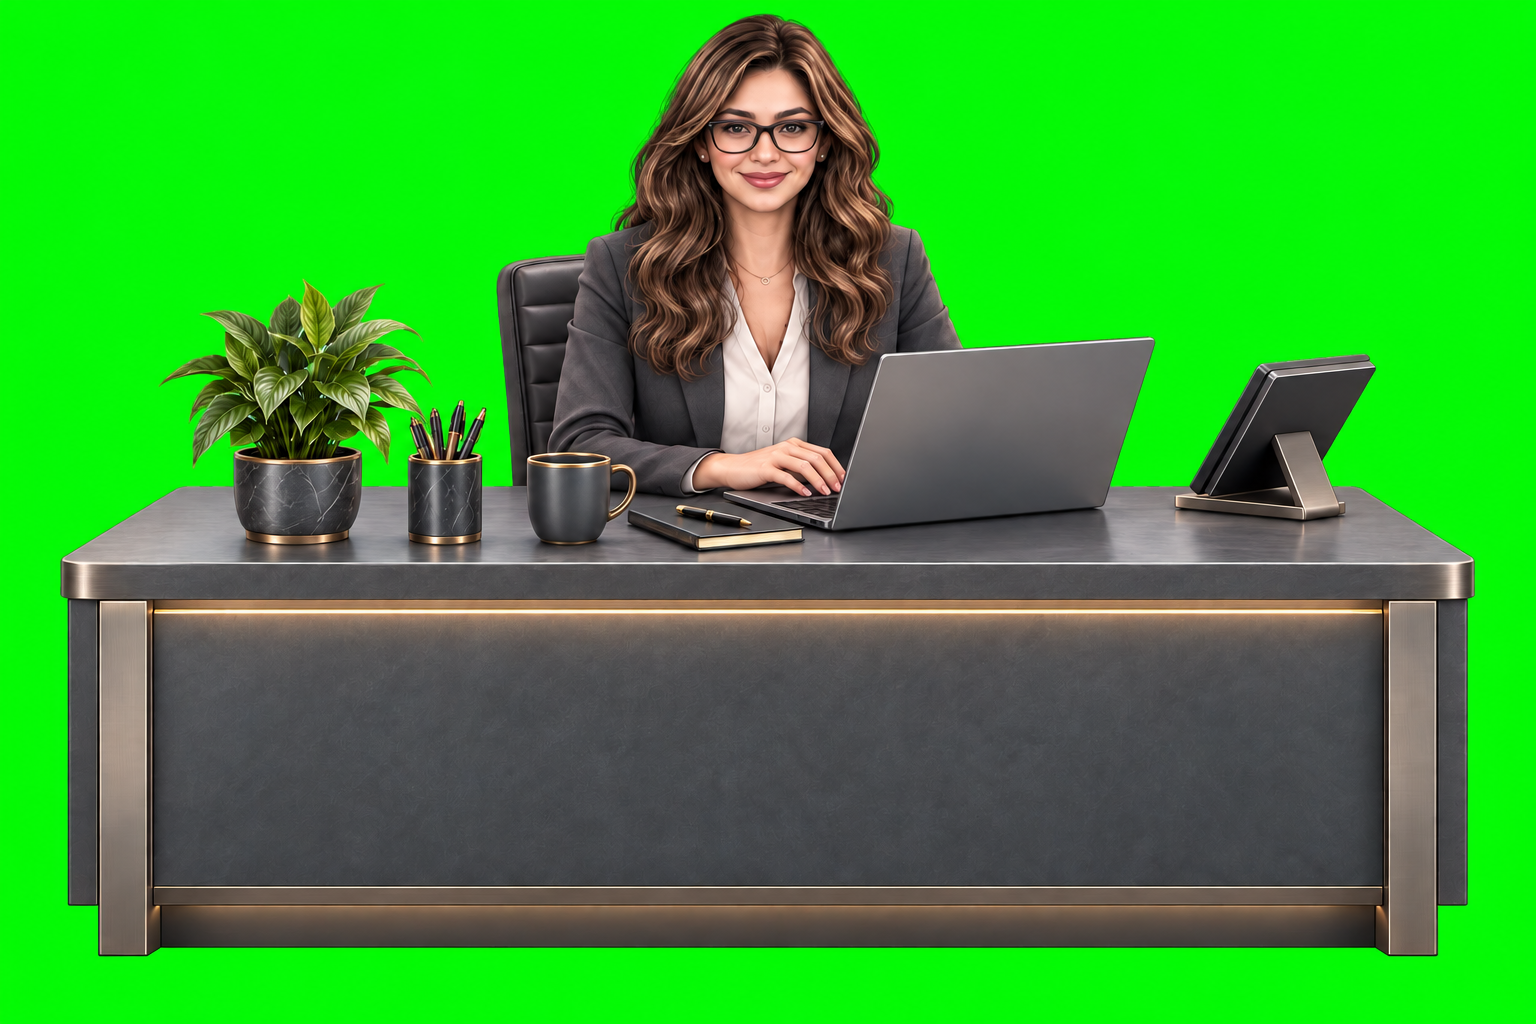
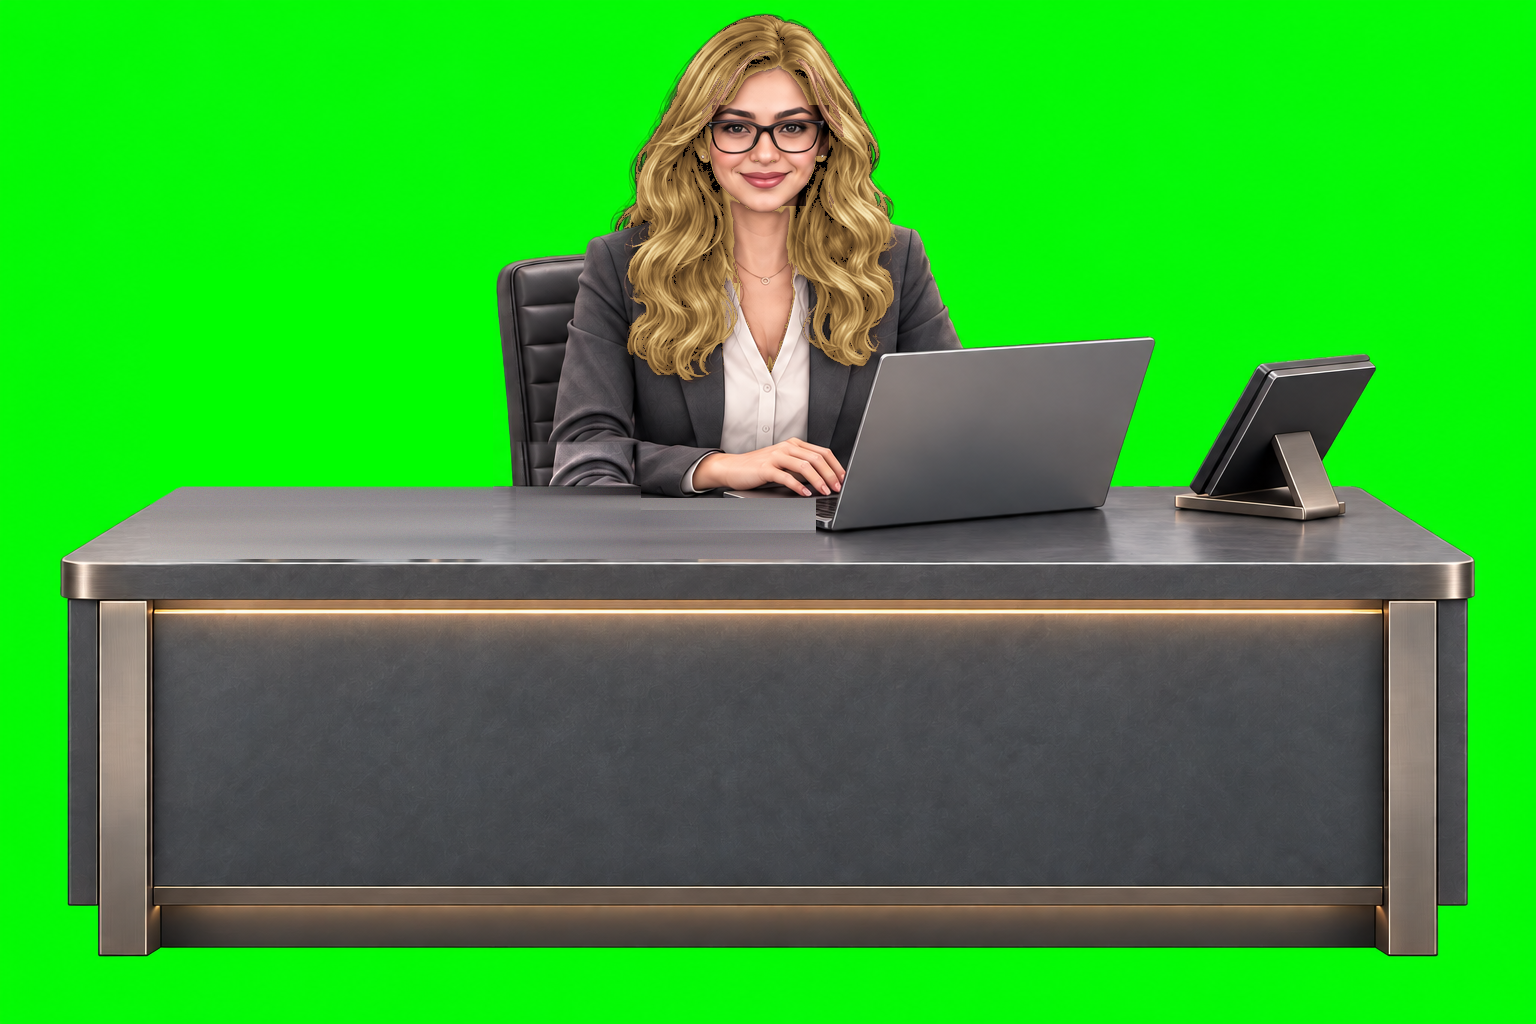
Studio: blonde receptionist, cleared desk, one big info screen per room; drop nav red pill

Changed region(s): [[0.0938, 0.2812, 0.5312, 0.5625], [0.4062, 0.0, 0.5938, 0.375]]

diff --git a/studio/scene.js b/studio/scene.js
@@ -40,8 +40,29 @@ function figure(url,w,h,parent,x,y,z,action){
   plane.userData.alpha={pixels,width:iw,height:ih};mat.map=t;mat.needsUpdate=true;plane.visible=true;
  },undefined,()=>{plane.visible=false});if(action){plane.userData.action=action;hits.push(plane)}return plane;
 }
-function chair(parent,x,z){box(.7,.12,.7,mats.dark,parent,x,.48,z);box(.7,.85,.1,mats.dark,parent,x,.94,z+.3);box(.07,.45,.07,mats.trim,parent,x,.25,z);for(const a of [-1,1])box(.65,.05,.06,mats.trim,parent,x,.08,z+a*.2)}
-function desk(parent,x,z,color){box(3,.13,1.4,mats.wood,parent,x,.84,z);for(const a of [-1,1])box(.12,.8,1.1,mats.dark,parent,x+a*1.3,.4,z);box(1.35,.83,.07,mats.dark,parent,x,1.42,z-.25);label('shautech',chapters[color].name.toUpperCase(),1.22,.68,parent,x,1.42,z-.201,95,chapters[color].color);box(.08,.32,.08,mats.trim,parent,x,1,z-.25);box(.48,.03,.3,mats.trim,parent,x,.92,z-.25);box(.6,.035,.24,mats.dark,parent,x,.925,z+.27);chair(parent,x,z-1.2)}
+// One wall-sized screen per room carries the chapter's story: title, lead and the key points from its detail panel.
+function wrap(ctx,text,maxWidth){const words=text.split(/\s+/),lines=[];let line='';for(const w of words){const test=line?line+' '+w:w;if(ctx.measureText(test).width>maxWidth&&line){lines.push(line);line=w}else line=test}if(line)lines.push(line);return lines}
+function screen(ch,index,w,h,parent,x,y,z){
+ const doc=new DOMParser().parseFromString(ch.body.replace(/<br\s*\/?>/gi,' '),'text/html');
+ const text=el=>(el?.textContent||'').replace(/\s+/g,' ').trim();
+ const title=text(doc.querySelector('h2')),lead=text(doc.querySelector('.detail-lead'));
+ const items=[...doc.querySelectorAll('article, .lab-link')].map((el,k)=>({num:text(el.querySelector('.num'))||text(el.querySelector('p.eyebrow'))||text(el.querySelector(':scope > span'))||'0'+(k+1),head:text(el.querySelector('h3')),body:text(el.querySelector('p:not(.eyebrow)'))})).filter(it=>it.head).slice(0,6);
+ const c=document.createElement('canvas');c.width=2048;c.height=1024;const ctx=c.getContext('2d');
+ const grad=ctx.createLinearGradient(0,0,0,1024);grad.addColorStop(0,'#0f1a25');grad.addColorStop(1,'#0a121a');ctx.fillStyle=grad;ctx.fillRect(0,0,2048,1024);
+ ctx.strokeStyle=ch.color;ctx.globalAlpha=.35;ctx.lineWidth=4;ctx.strokeRect(22,22,2004,980);ctx.globalAlpha=1;
+ ctx.fillStyle=ch.color;ctx.font='500 34px Arial';ctx.fillText(`0${index} / ${ch.name.toUpperCase()}   ·   ${ch.eyebrow}`,90,96);
+ ctx.fillStyle='#f2f4f0';ctx.font='600 110px Arial';let yy=212;for(const l of wrap(ctx,title,1860)){ctx.fillText(l,86,yy);yy+=118}
+ ctx.fillStyle=ch.color;ctx.fillRect(90,yy-58,180,5);yy+=22;
+ ctx.fillStyle='#c4ccd2';ctx.font='42px Arial';for(const l of wrap(ctx,lead,1860)){ctx.fillText(l,90,yy);yy+=56}
+ const cols=items.length>4?3:2,gap=44,cw=(2048-180-gap*(cols-1))/cols,rows=Math.ceil(items.length/cols),top=yy+36,rowH=Math.min(250,(940-top)/Math.max(1,rows));
+ items.forEach((it,k)=>{const cx=90+(k%cols)*(cw+gap),cy=top+Math.floor(k/cols)*rowH;ctx.fillStyle=ch.color;ctx.fillRect(cx,cy,3,rowH-30);ctx.font='500 26px Arial';ctx.fillText(it.num.toUpperCase(),cx+24,cy+30);ctx.fillStyle='#ffffff';ctx.font='600 44px Arial';let ly=cy+84;for(const l of wrap(ctx,it.head,cw-40).slice(0,2)){ctx.fillText(l,cx+24,ly);ly+=50}ctx.fillStyle='#9fb0bd';ctx.font='30px Arial';for(const l of wrap(ctx,it.body,cw-40).slice(0,rowH>200?3:2)){ctx.fillText(l,cx+24,ly);ly+=38}});
+ ctx.fillStyle=ch.color;ctx.font='500 30px Arial';ctx.textAlign='right';ctx.fillText('CLICK THE SCREEN FOR THE FULL STORY  ↗',1958,972);
+ const tex=new T.CanvasTexture(c);tex.colorSpace=T.SRGBColorSpace;tex.anisotropy=renderer.capabilities.getMaxAnisotropy();
+ const m=new T.Mesh(new T.PlaneGeometry(w,h),new T.MeshBasicMaterial({map:tex,toneMapped:false}));m.position.set(x,y,z);parent.add(m);
+ const bezel=new T.MeshStandardMaterial({color:0x0b1219,metalness:.6,roughness:.35});box(w+.16,h+.16,.06,bezel,parent,x,y,z-.035);
+ const glow=emissive(new T.Color(ch.color),1.2);box(w+.24,.03,.04,glow,parent,x,y-h/2-.11,z-.03);box(w+.24,.03,.04,glow,parent,x,y+h/2+.11,z-.03);
+ return m;
+}
 // The reception opens directly into a continuous, physically modelled hallway.
 box(8,.2,108,mats.floor,scene,0,-.12,-39);box(8,.2,108,mats.dark,scene,0,4.9,-39);
 for(let z=14;z>=-91;z-=3){box(7.9,.007,.014,mats.trim,scene,0,.001,z);box(.014,.007,3,mats.trim,scene,0,.002,z-1.5)}
@@ -69,22 +90,11 @@ for(let i=1;i<8;i++){
  const group=new T.Group();front.add(group);box(9,.2,8.5,mats.floor,group,0,i===7?-.105:-.12,-4.25);box(9,.15,8.5,mats.dark,group,0,4.86,-4.25);box(9,4.8,.2,mats.wall,group,0,2.4,-8.5);box(.2,4.8,8.5,mats.dark,group,-4.5,2.4,-4.25);box(.2,4.8,8.5,mats.dark,group,4.5,2.4,-4.25);
  for(const s of [-1,1])box(.035,.035,8.1,emissive(col,1.6),group,s*4.15,4.73,-4.25);
  ring(1.6,.022,col,group,0,4.45,-4.5,Math.PI/2);
- const title=label(ch.name.toUpperCase(),ch.eyebrow,5.3,2.3,group,0,2.7,-8.35,105,ch.color);title.userData.action={kind:'details',index:i};hits.push(title);
- const info=label('EXPLORE','CLICK FOR THE STORY',1.25,.62,group,0,1.1,-2.9,100,ch.color);info.userData.action={kind:'details',index:i};hits.push(info);box(1.35,1.4,.5,mats.dark,group,0,.65,-3.1);
- desk(group,0,-6,i);chair(group,-1.4,-4.5);chair(group,1.4,-4.5);
- const light=new T.PointLight(col,25,14);light.position.set(0,3.8,-4);group.add(light);
- const exhibit=new T.Group();exhibit.position.set(-2.9,1.75,-4.8);group.add(exhibit);box(1.55,1.1,1.55,mats.dark,group,-2.9,.55,-4.8);
- const emat=new T.MeshStandardMaterial({color:col,emissive:col,emissiveIntensity:.22,metalness:.55,roughness:.25});
- if(i===1){for(let a=-1;a<=1;a++)for(let b=-1;b<=1;b++)box(.28,.28,.28,emat,exhibit,a*.4,b*.4,0);}
- if(i===2){const globe=new T.Mesh(new T.IcosahedronGeometry(.75,2),new T.MeshBasicMaterial({color:col,wireframe:true}));exhibit.add(globe);const r=ring(.84,.016,col,exhibit,0,0,0,Math.PI/2);tick.push(t=>r.position.y=Math.sin(t)*.6)}
- if(i===3){for(let k=0;k<4;k++){const g=box(.5,.12,.45,emat,exhibit,Math.sin(k*1.5)*.45,(k-1.5)*.4,Math.cos(k*1.5)*.45);}}
- if(i===4){for(let k=0;k<5;k++){const m=new T.Mesh(new T.OctahedronGeometry(.25),emat);m.position.set(Math.sin(k/5*Math.PI*2)*.7,Math.cos(k/5*Math.PI*2)*.7,0);exhibit.add(m)}}
- if(i===5){figure('assets/lucian-studio.png',1.4,2.15,group,-1.45,0,-6.4,{kind:'details',index:i});figure('assets/andrei-studio.png',1.4,2.1,group,1.5,0,-6.4,{kind:'details',index:i});}
- if(i===6){for(let k=0;k<6;k++)box(1.1,.08,.8,emat,exhibit,0,(k-2.5)*.18,0)}
- if(i===7)ring(.75,.1,col,exhibit,0,0,0);
- tick.push(t=>exhibit.rotation.y=t*.2);
- // Tall cabinets make each office a place, not a floating label.
- for(let k=0;k<3;k++){box(.8,2.7,.65,mats.dark,group,3.6,1.35,-4-k*1.1);for(let j=0;j<5;j++)box(.66,.015,.66,mats.trim,group,3.6,.45+j*.46,-4-k*1.1);box(.02,2.1,.03,emissive(col,.8),group,3.18,1.4,-3.66-k*1.1)}
+ // The room is deliberately empty: one wall-sized screen tells the chapter's story.
+ const wall=screen(ch,i,8.2,4.1,group,0,2.45,-8.3);wall.userData.action={kind:'details',index:i};hits.push(wall);
+ const light=new T.PointLight(col,30,16);light.position.set(0,3.8,-4.5);group.add(light);
+ const wash=new T.PointLight(0xdfe9f2,26,12);wash.position.set(0,3.2,-2.6);group.add(wash);
+ for(const s of [-1,1])box(.03,.03,7.6,emissive(0xc5dfed,1.4),group,s*4.42,.25,-4.4);
  doors[i]={hinge,front,side,z,door,open:0};rooms[i]=group;
 }
 // The founders welcome visitors on either side of the final, functional door.
@@ -96,13 +106,13 @@ label('Andrei','CO-FOUNDER / ENDPOINTS & SECURITY',1.25,.42,scene,1.1,3.00,-80.9
 // Geometric ceiling baffles, floor pools and daylight create readable parallax at every step.
 for(let z=-5;z>-90;z-=12){const pl=new T.PointLight(0xffd5a0,16,13);pl.position.set(0,4,z);scene.add(pl);const pool=new T.Mesh(new T.PlaneGeometry(5,3),new T.MeshBasicMaterial({color:0xadc8d3,transparent:true,opacity:.045,depthWrite:false}));pool.rotation.x=-Math.PI/2;pool.position.set(0,.005,z);scene.add(pool);}
 function resize(){camera.aspect=innerWidth/innerHeight;camera.fov=innerWidth<761?78:67;camera.updateProjectionMatrix();renderer.setSize(innerWidth,innerHeight)}
-function beginRoom(i){if(!doors[i]||transition)return;roomIndex=i;roomReady=false;const d=doors[i],start=camera.position.clone();const end=new T.Vector3(d.side*6.1,1.7,d.z-(d.side?0:2.1));const curve=new T.CatmullRomCurve3(d.side?[start,new T.Vector3(d.side*1.6,1.7,d.z+2.8),new T.Vector3(d.side*4.3,1.7,d.z),end]:[start,new T.Vector3(0,1.7,d.z+3),new T.Vector3(0,1.7,d.z+.25),end]);transition={kind:'enter',p:0,curve,fromLook:look.clone(),toLook:new T.Vector3(d.side*12.3,1.8,d.z-(d.side?0:8.3))};}
+function beginRoom(i,instant=false){if(!doors[i]||transition)return;roomIndex=i;roomReady=false;const d=doors[i],start=camera.position.clone();const end=new T.Vector3(d.side*6.1,1.7,d.z-(d.side?0:2.1));if(instant){camera.position.copy(end);look.set(d.side*12.3,2.2,d.z-(d.side?0:8.3));d.open=1;roomReady=true;return}const curve=new T.CatmullRomCurve3(d.side?[start,new T.Vector3(d.side*1.6,1.7,d.z+2.8),new T.Vector3(d.side*4.3,1.7,d.z),end]:[start,new T.Vector3(0,1.7,d.z+3),new T.Vector3(0,1.7,d.z+.25),end]);transition={kind:'enter',p:0,curve,fromLook:look.clone(),toLook:new T.Vector3(d.side*12.3,2.2,d.z-(d.side?0:8.3))};}
 function leaveRoom(){if(roomIndex===null||transition)return;const d=doors[roomIndex];transition={kind:'leave',p:0,curve:new T.CatmullRomCurve3([camera.position.clone(),new T.Vector3(d.side*4.3,1.7,d.z+(d.side?0:.25)),new T.Vector3(0,1.7,d.z+3),new T.Vector3(0,1.7,10-roomIndex*12)]),fromLook:look.clone(),toLook:new T.Vector3(0,1.7,d.z-25)};roomReady=false;}
 return{resize,pointer(x,y){mx=x;my=y},hit(x,y){ptr.set(x/innerWidth*2-1,-y/innerHeight*2+1);ray.setFromCamera(ptr,camera);const hit=ray.intersectObjects(hits,false).find(h=>{const a=h.object.userData.action,alpha=h.object.userData.alpha;if(!h.object.visible)return false;if(alpha&&h.uv){const px=Math.min(alpha.width-1,Math.max(0,Math.floor(h.uv.x*alpha.width))),py=Math.min(alpha.height-1,Math.max(0,Math.floor((1-h.uv.y)*alpha.height)));if(alpha.pixels[(py*alpha.width+px)*4+3]<20)return false}return h.distance<14&&(roomIndex===null?(a.kind==='enter'||a.index===0||a.hall):a.kind==='details'&&a.index===roomIndex)});return hit?.object.userData.action||null},enterRoom:beginRoom,leaveRoom,get inRoom(){return roomIndex!==null},get ready(){return roomReady},get roomIndex(){return roomIndex},cancelRoom(){roomIndex=null;transition=null;roomReady=false;},update(s){
 currentChapter=Math.round(s.current);const dt=s.dt;progress=s.current;moving.position.copy(camera.position);moving.position.y=3;
 if(transition){const tr=transition;tr.p=Math.min(1,tr.p+dt*.55);const p=tr.p*tr.p*(3-2*tr.p);camera.position.copy(tr.curve.getPoint(p));look.lerpVectors(tr.fromLook,tr.toLook,p);if(tr.p===1){if(tr.kind==='leave')roomIndex=null;else roomReady=true;transition=null;}}
 else if(roomIndex===null){camera.position.set(mx*.35,1.7+(s.paused?0:Math.sin(s.current*12)*.015),10-s.current*12);targetLook.set(mx*2,1.7-my*.8,camera.position.z-14);look.lerp(targetLook,1-Math.exp(-dt*5));}
-else{const d=doors[roomIndex];targetLook.set(d.side?d.side*12.3:mx*3,1.8-my*.8,d.side?d.z-mx*3:d.z-8.3);look.lerp(targetLook,1-Math.exp(-dt*5));}
+else{const d=doors[roomIndex];targetLook.set(d.side?d.side*12.3:mx*3,2.2-my*.8,d.side?d.z-mx*3:d.z-8.3);look.lerp(targetLook,1-Math.exp(-dt*5));}
 camera.lookAt(look);
 for(let i=1;i<8;i++){const d=doors[i];d.open+=((i===roomIndex?1:0)-d.open)*(1-Math.exp(-dt*6));d.hinge.rotation.y=d.open*1.65;doorMats[i-1].emissiveIntensity=i===currentChapter?.12:.025;rooms[i].visible=Math.abs(i-s.current)<2||i===roomIndex;}
 if(!s.paused)tick.forEach(fn=>fn(s.clock));renderer.render(scene,camera);

diff --git a/index.html b/index.html
@@ -684,7 +684,6 @@
     </nav>
     <div class="nav-right">
       <span class="avail"><span class="dot"></span><span id="availTxt">Booking now</span></span>
-      <a href="studio/" class="redpill redpill--nav" title="Take the red pill: enter the 3D shautech studio"><span class="cap" aria-hidden="true"></span><span class="lbl">Red pill</span></a>
       <a href="#contact" class="btn btn-primary">Book a free call <span class="arr">→</span></a>
       <button class="burger" id="burger" aria-label="Open menu" aria-expanded="false">
         <span></span><span></span><span></span>
